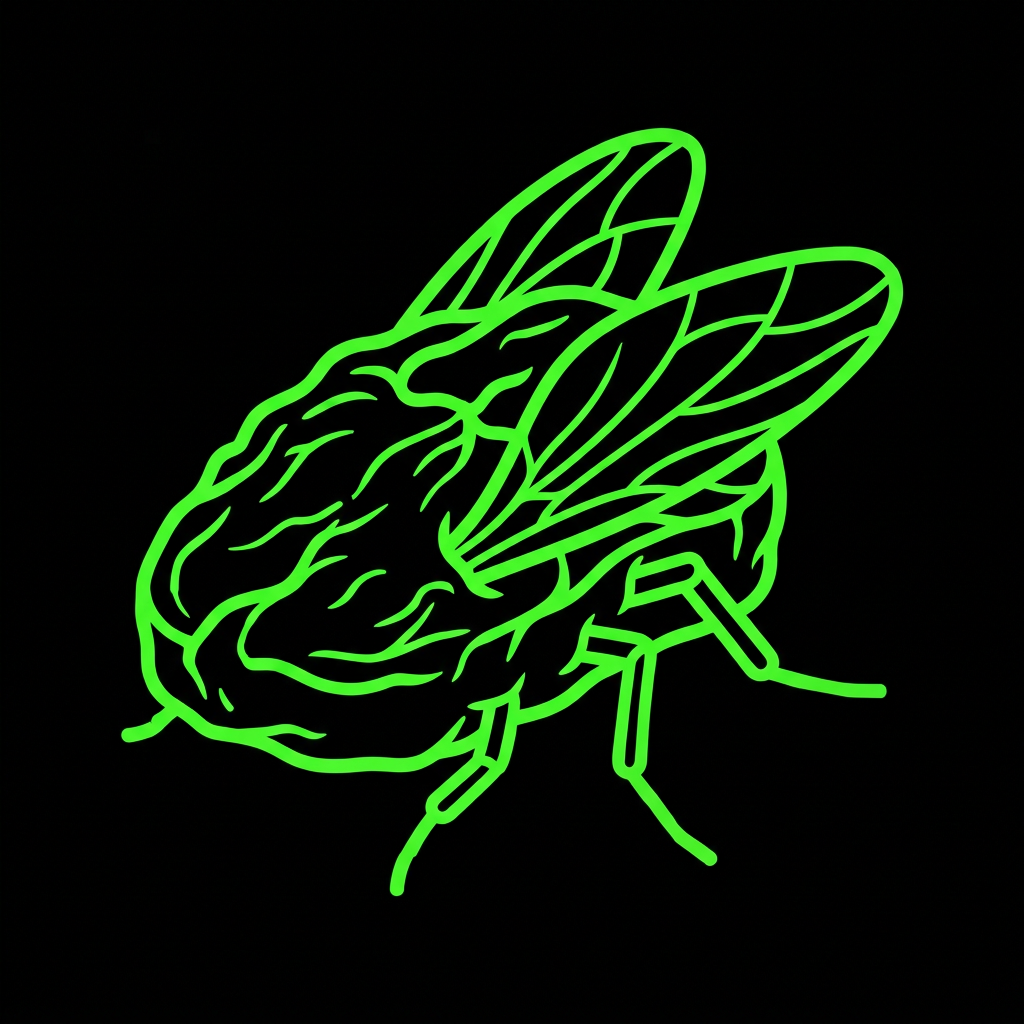
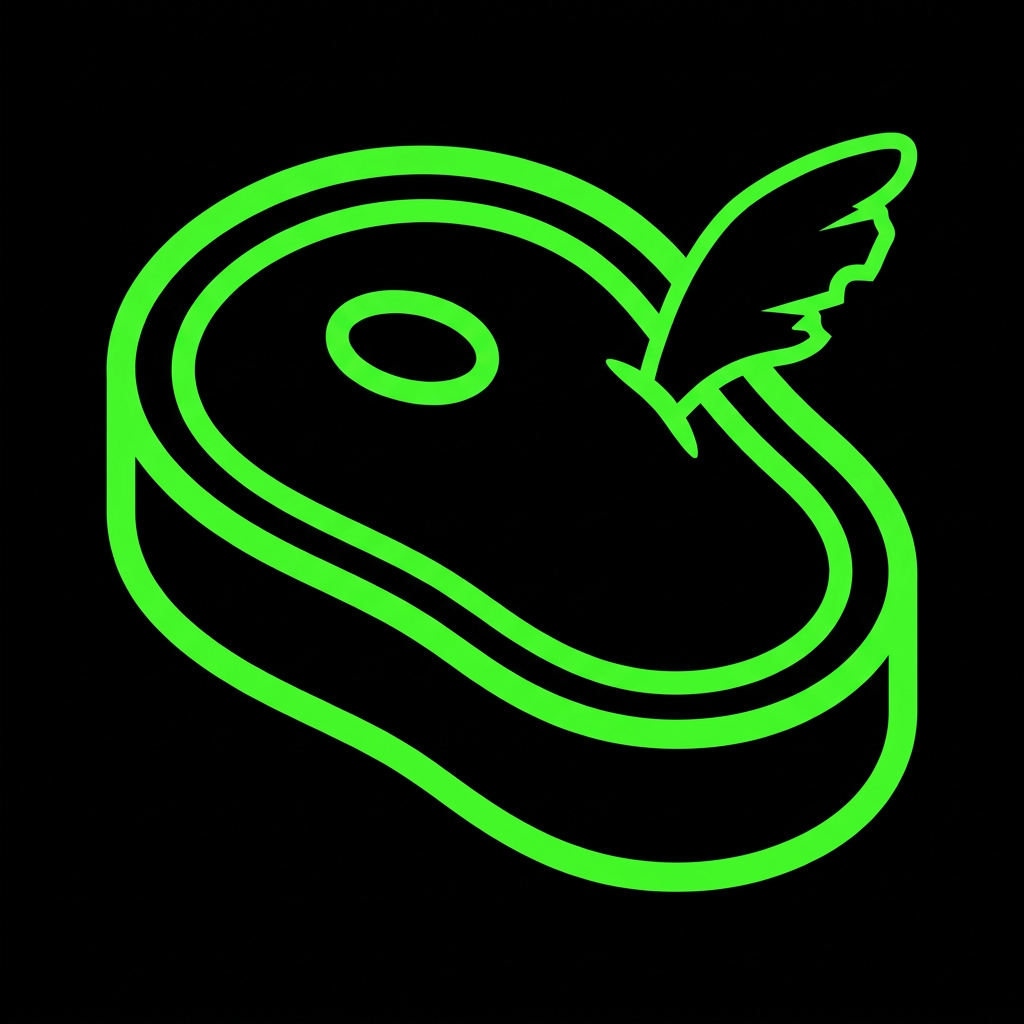
ITMBILDER.md zur Pflegedokumentation, meat-Fleisch korrigiert (#444)
docs/ITEMBILDER.md war eine Arbeitsliste und zuletzt zur Haelfte
veraltet: die Fehlliste leer, die Blockeinteilung erledigt, die
Stand-Zeile nannte 23 von 126. Jetzt eine Pflegedokumentation:
Stilregeln, Arbeitsablauf fuer ein neues Motiv, die vier
Fehlerklassen mit ihren Messwerten, die Werkzeuge und ihre Fallen.

Dabei einen echten Restfehler gefunden und behoben. Die Doku hielt
fest, dass meat_roach, meat_fly und meat_mole das ganze Tier zeigen
statt eines Fleischstuecks - inhaltlich falsch neben meat_dog,
meat_lurk und meat_yao, die Fleisch zeigten. meat_roach und meat_fly
sind neu gezeichnet: Fleischstueck als Hauptform, Herkunft als
kleines Detail. meat_mole kam mit weissem Hintergrund zurueck und
fehlt noch.

126 Items, 125 Motive, 678 kB. 135 Tests gruen, Verify vollstaendig.

Changed region(s): [[0.0938, 0.125, 0.9062, 0.875]]

diff --git a/PipBoy3000/docs/ITEMBILDER.md b/PipBoy3000/docs/ITEMBILDER.md
@@ -1,175 +1,132 @@
-# Item-Bilder — was noch fehlt
+# Item-Bilder — Pflege
 
-Stand: 23 von 126 Items haben ein Bild (`img/items/`).
-Werkzeug: `npm run icons` (beschneiden, Rand, 128 px, Tabelle schreiben).
-Rohbilder liegen in `docs/muster/<id>.png`, ausgeliefert wird `img/items/<id>.png`.
+**Stand: alle 126 Items haben ein Bild.** 128 × 128 px, Ø 5,4 kB, 678 kB gesamt.
 
-## Stil (für alle Prompts gleich)
+Diese Datei beschreibt, wie ein Motiv entsteht und woran ein unbrauchbares
+Rohbild erkannt wird. Die Fehlliste, die hier früher stand, ist leer — sie
+wird bei Bedarf wieder aufgenommen.
 
-> monochrome phosphor green line art (#39ff14) on a solid pure black background,
-> thick clean uniform stroke width, upright, centered, filling about 80% of the
-> square frame, narrow black margin. No text, no letters, no numbers, no border,
-> no frame, no shadow, no gradient.
-
-Die Lage ist entscheidend: **aufrecht oder diagonal mit gefüllter Fläche.**
-Die erste Spritze lag flach diagonal im Bild und war bei 32 px nur ein Strich.
-
-## Fertig (23)
-
-Verbrauchsgüter: `stimpack` `radaway` `radx` `nuka_cola` `nuka_quantum`
-`jet` `buffout` `stealth_boy`
-Munition: `ammo_10mm` `ammo_shell` `ammo_micro`
-Waffen: `pistol_10mm` `revolver_44` `shotgun` `combat_shotgun` `smg`
-`assault_rifle` `minigun` `laser_pistol` `laser_rifle` `plasma_pistol` `plasma_rifle`
-Rüstung: `power_armor`
-
-## Inhaltsfehler: Tiere statt Fleisch
-
-`meat_roach` `meat_fly` `meat_mole` zeigen das ganze Tier (Kakerlake,
-Fliege, Ratte) statt eines Fleischstuecks. Das Pruefskript kann das nicht
-fangen - die Bilder sind technisch einwandfrei, nur inhaltlich falsch.
-
-Ursache: "a lump of raw insect meat with legs attached" wurde als ganzes
-Insekt gelesen. Richtig ist: das Fleischstueck ist die Hauptform, die
-Herkunft nur ein kleines Detail.
-
-Regel: bei Fleisch zuerst die FORM nennen (Steak, Rippchen, Klaue,
-Braten), die Herkunft nur als Beigabe.
-
-## Dunkler Schleier statt Schwarz
-
-`wrench` und `camp_kit` hatten im Rohbild einen dunkelgruenen Schleier:
-Hintergrund (5,22,5) statt (0,1,0). Die Weiss-Pruefung sieht das nicht,
-weil 22 im Gruenkanal weit unter der Weiss-Schwelle liegt. Im Inventar
-wirken solche Icons als hellere Kacheln neben 118 sauberen.
-
-`tools/icon-check.mjs` prueft jetzt zusaetzlich: liegt der Anteil der
-Hintergrundpixel mit Gruenwert ueber 8 bei mehr als 30 %, ist der
-Hintergrund nicht schwarz.
-
-## Befüllte statt gezeichneter Motive
-
-`cooked_lurk` kam als vollflaechig gefuellte Silhouette zurueck statt als
-Linienkunst (25 % helle Pixel gegen 14,6 % Mittel). Die Weiss-Pruefung
-sieht das nicht — hier hilft nur der Blick aufs Kontrollblatt.
-
-Regel fuer die Restmotive: "outline line art, hollow interior, no solid
-fill" gehoert bei jedem Motiv in den Prompt, das eine grosse Flaeche hat.
-
-## Ausschuss in Block 5
-
-`bp_stimpack` und `gears` hatten weissen Hintergrund (85,6 % / 36,3 %) —
-mit dem Zusatz "on a SOLID PURE BLACK BACKGROUND (no white, no light grey)"
-im Prompt beide im zweiten Anlauf sauber.
-
-`duct_tape` war zweimal Ausschuss (weisser Streifen am unteren Rand,
-y 896-1023 und y 925-1023). Der dritte Versuch mit "top-down, perfectly
-centered, at least 15 percent margin on every side" war sauber — das
-Motiv ist im Set.
-
-## Regel: Hintergrund pruefen
-
-Ein Motiv kann inhaltlich stimmen und trotzdem unbrauchbar sein, wenn der
-Hintergrund weiss ist. Das Faerbungsmuster "green line art on a solid pure
-black background" wird nicht immer befolgt. `tools/icon-check.mjs` zaehlt
-weisse Pixel und bricht ab - bei `gears` war nur der Hintergrund falsch,
-die Zahnraeder selbst waren sauber.
-
-## Ausschuss in Block 4 — erledigt
-
-`greaves_metal` und `helmet_combat` wurden vom Pruefskript abgefangen
-(14,9 % und 80,5 % weisse Pixel) und neu gezeichnet. Beide sind jetzt im Set.
-
-## Bildfehler-Prüfung
-
-`node tools/icon-check.mjs` (laeuft bei `npm run icons` zuerst) meldet Rohbilder
-mit mehr als 0,5 % weissen Pixeln und bricht dann ab.
-
-Bisher gefunden: `knuckles` (weisse Stoerung in allen vier Ecken) und
-`pipe_sniper` (gefuellte Grafik auf Weiss statt Linien auf Schwarz). Beide neu
-gezeichnet, die Pruefung greift jetzt vor der Aufbereitung.
-
-## Erledigt in Block 3 — Restliche Waffen (23)
-
-Schusswaffen:
-
-| id | Motiv |
+| | |
 |---|---|
-| `pipe_pistol` | Rohrpistole aus Rohren und Klebeband |
-| `pipe_rifle` | Rohrgewehr mit langem Rohr und Holzschaft |
-| `pipe_revolver` | Rohrrevolver, grob, mit Trommel |
-| `pipe_sniper` | Rohr-Sniper mit Zielfernrohr aus Rohren |
-| `hunting_rifle` | Jagdgewehr, Holzschaft, Repetierhebel |
-| `sniper_rifle` | Scharfschützengewehr mit großem Zielfernrohr und Zweibein |
-| `alien_blaster` | außerirdische Strahlenwaffe, organisch gerundet |
+| Rohbilder | `docs/muster/<id>.png` (1024–2048 px, nicht ausliefern) |
+| Ausgeliefert | `img/items/<id>.png` |
+| Aufbereitung | `npm run icons` → `tools/icons.mjs`, danach Tabelle schreiben |
+| Prüfung vorher | `npm run icons:check` → `tools/icon-check.mjs` |
+| Sichtprüfung | `docs/kontrollblatt-items.png` (alle Motive auf einem Bild) |
 
-Nahkampf:
+`npm run icons` ruft die Prüfung selbst auf und bricht bei einem Fund ab.
+Ein fehlerhaftes Rohbild kommt damit nicht ins Set.
 
-| id | Motiv |
+## Ein neues Motiv
+
+1. Rohbild nach dem Stil unten erzeugen, ablegen als `docs/muster/<item-id>.png`.
+   Die ID muss der Schlüssel in `src/data/data_items.js` sein.
+2. `npm run icons` — beschneiden, Rand, 128 px, Tabelle schreiben.
+3. `npm test` — prüft Tabelle, Dateigröße, Pfade und dass jedes Bild ein Item hat.
+4. Kontrollblatt neu bauen und ansehen. **Der Schritt ist nicht optional** (siehe
+   Fehlerklasse 4).
+
+Fehlt ein Bild, greift im Inventar das Typ-Emoji. Das ist der Rückfall, nicht
+der Normalfall: seit v14.0.6 hat jedes Item ein Motiv.
+
+## Stil
+
+> A single flat vector icon of …, drawn in the style of a Fallout Pip-Boy
+> terminal interface: monochrome phosphor green line art (#39ff14) on a solid
+> pure black background. Thick, clean, uniform stroke width. Upright, centered,
+> filling about 80% of the square frame, narrow black margin. No text, no
+> letters, no numbers, no border, no frame, no shadow, no gradient.
+
+Vier Zusätze, die aus Fehlversuchen entstanden sind. Sie gehören in **jeden**
+Prompt — ohne sie liegt die Trefferquote bei etwa 85 %:
+
+| Zusatz | verhindert |
 |---|---|
-| `fists` | gepanzerte Faust / Schlaghandschuh |
-| `knuckles` | Schlagring mit vier Löchern und Noppen |
-| `switchblade` | Springmesser, schmale Klinge, Knopf am Griff |
-| `knife` | Kampfmesser, kurze Klinge, Parierstange |
-| `machete` | Machete, breite Klinge |
-| `rolling_pin` | Nudelholz aus Holz mit zwei Griffen |
-| `pipe_wrench` | Rohrzange, gezahnte Backe |
-| `police_baton` | Schlagstock mit Seitengriff |
-| `baseball_bat` | Baseballschläger aus Holz |
-| `bat_alum` | Alu-Schläger, glatter Lauf, Klebeband am Griff |
-| `bat_spiked` | Baseballschläger mit Nägeln |
-| `sledgehammer` | Vorschlaghammer, schwerer Kopf |
-| `super_sledge` | Superhammer, überdimensionierter Kopf mit Bolzen |
-| `ripper` | Kettensäge-Klinge mit Motor und Kabel |
-| `power_fist` | angetriebene Powerfaust mit Hydraulik |
-| `deathclaw_gauntlet` | Handschuh aus Todeskrallen-Klauen |
+| `on a SOLID PURE BLACK BACKGROUND (no white, no light grey)` | weißen Hintergrund |
+| `perfectly centered, at least 15 percent margin on every side` | weißen Streifen am Bildrand |
+| `outline line art, hollow interior, no solid fill` | vollflächig gefüllte Silhouette |
+| `pure black, no dark green tint, no haze, no vignette` | dunkelgrünen Schleier |
 
-## Block 4 — Rüstung (25) — KOMPLETT
+**Lage:** aufrecht oder diagonal, aber die Form muss die Fläche füllen. Die
+erste Spritze lag flach diagonal in einem 2048er Quadrat und war bei 32 px nur
+ein Strich.
 
-| Stufe | ids |
-|---|---|
-| Raider ✓ | `raider_armor` `raider_helm` `raider_arm_l` `raider_leg_r` |
-| Leder ✓ | `leather_armor` `leather_helm` `bracers_leather` `pants_leather` `boots_leather` |
-| Metall ✓ | `metal_armor` `helmet_metal` `metal_arms` `greaves_metal` |
-| Kampf ✓ | `combat_armor` `helmet_combat` `combat_arms` `combat_legs` `boots_combat` |
-| Synth ✓ | `synth_armor` `synth_helmet` |
-| Sonstiges ✓ | `vault_suit` `hazmat_suit` `cap_baseball` `helmet_mining` `gas_mask` `jeans` `boots_worn` |
+**Fleisch:** zuerst die FORM nennen (Steak, Rippchen, Keule), die Herkunft nur
+als kleines Detail. „a lump of raw insect meat with legs attached" wurde als
+ganzes Insekt gelesen — `meat_roach`, `meat_fly` und `meat_mole` zeigten
+zunächst das Tier statt des Fleisches.
 
-## Block 5 — Handwerk, Rohstoffe, Rucksäcke (42)  ← laeuft
+**Rohstoffe:** Einzelteil statt Kiste. Eine Schraube ist bei 32 px lesbar, eine
+Schraubenschachtel nicht.
 
-Rucksäcke (fertig): `backpack_frame` `backpack_leather` `backpack_metal`
-`backpack_military` `backpack_cargo`
+**Rüstung:** die vier Teile einer Stufe trennen über die Silhouette (Brustplatte,
+Helm, Armschutz, Beinschutz), die Stufen untereinander über die Oberfläche
+(Schrott, Naht, Nieten, Verbundplatten, glatte Naht).
 
-Werkzeug: `camp_kit` `lockpick` `wrench` `clipboard` `tin_can`
-`radio_part` `fusion_core`
+## Die vier Fehlerklassen
 
-Baupläne ✓: `bp_ammo` `bp_stimpack`
+Bei 126 Motiven waren rund 20 Rohbilder unbrauchbar — fast nie, weil das Motiv
+misslang, sondern wegen der Aufbereitung. Drei der vier Klassen sind an der
+Datei nicht zu erkennen: 1024 × 1024, schwarz, grün, ladbar, technisch
+einwandfrei.
 
-Munition (fertig): `ammo` (Schrott .38) `ammo_308` `ammo_cell`
+### 1. Weißer Hintergrund
 
-Rohstoffe ✓: `junk_metal` `cloth` `screws` `glue` `springs` `plastic` `leather`
-`gears` `circuit` `adhesive` `oil` `duct_tape`
+Der Stilsatz wird nicht zuverlässig befolgt. Bei `gears` stimmte das Motiv
+vollständig — nur der Hintergrund war weiß statt schwarz.
 
-Selten (4/8): `nuclear_mat` `legendary_part` `titanium` `bone`
-Offen: `deathclaw_hand` `acid` `poison_gland` `gunpowder`
+Erkennung: Anteil weißer Pixel über **0,5 %**.
 
-Nahrung (roh) 5/8: `meat_dog` `meat_scorp` `meat_yao` `meat_lurk` `hide_yao`
-Falsch, neu: `meat_roach` `meat_fly` `meat_mole`
+### 2. Weißer Streifen am Bildrand
 
-Nahrung (gebraten): `cooked_roach` `cooked_mole` `cooked_fly`
-`cooked_scorp` `cooked_lurk` `cooked_dog` `cooked_yao`
+`duct_tape` scheiterte zweimal mit einem weißen Streifen über die volle Breite
+am unteren Rand (y 896–1023, dann y 925–1023). Das Motiv war jedes Mal richtig.
+Beim Zuschneiden wäre daraus eine weiße Kante im Icon geworden.
 
-Verbrauchsgut ✓: `super_stimpack`
+Erkennung: weiße Pixel über 0,5 % **plus** Meldung, ob sie in einem
+zusammenhängenden Streifen an der ersten oder letzten Bildzeile liegen.
 
-## Regel für die Rohstoffe
+### 3. Dunkelgrüner Schleier
 
-Bei Rohmaterial reicht ein **Symbol-Motiv** (Schraube, Zahnrad, Klebeband-
-Rolle) statt einer realistischen Darstellung — bei 32 px ist eine
-Schraubenschachtel nicht lesbar, eine einzelne Schraube schon.
+`wrench` und `camp_kit` hatten einen Hintergrund von (5,22,5) statt (0,1,0).
+Grünwert 22 liegt weit unter der Weiß-Schwelle, die Prüfung sah nichts. Im
+Inventar wirken solche Icons als hellere Kacheln neben 118 sauberen.
 
-## Prüfung nach jedem Block
+Erkennung: Anteil der Hintergrundpixel (Grünwert ≤ 60) mit Grünwert über 8 —
+bei mehr als **30 %** ist der Hintergrund nicht schwarz.
+
+### 4. Gefüllte statt gezeichneter Silhouette
+
+`cooked_lurk` kam vollflächig gefüllt zurück (25,4 % helle Pixel gegen 6,7 %
+Median). Die Datei war einwandfrei.
+
+**Diese Klasse fängt keine Pixelmetrik.** Sie fiel nur beim Ansehen des
+Kontrollblatts auf. Deshalb ist Schritt 4 oben nicht optional.
+
+## Werkzeuge
 
 ```sh
-npm run icons          # aufbereiten + Tabelle schreiben
-npm test               # tests/item-bilder.test.mjs prüft Tabelle, Größe, Pfade
+npm run icons:check    # nur prüfen
+npm run icons          # prüfen + aufbereiten + Tabelle schreiben
+npm test               # u. a. tests/item-bilder.test.mjs
 ```
+
+`tools/icons.mjs` schneidet auf den Inhalt zu (`trim`, Schwelle 40), legt 8 %
+Rand an, skaliert in **zwei getrennten `sharp`-Instanzen** auf 128 px und
+schreibt als PNG-Palette mit Stufe 9.
+
+Die Trennung ist Pflicht: `sharp` führt pro Pipeline nur **einen** `resize`
+aus, ein zweiter in derselben Kette wird still ignoriert. Alle Bilder kamen
+dadurch mit 254–276 px statt 128 heraus.
+
+## Test
+
+`tests/item-bilder.test.mjs` prüft:
+
+- Tabelle und Dateibestand sind deckungsgleich
+- jedes Bild gehört zu einem existierenden Item
+- 128 × 128 und unter 20 kB
+- Pfade sind relativ (`img/items/…`, kein führender Schrägstrich — sonst bricht
+  einer der beiden Hosts, GitHub Pages und Vercel)
+- **jedes** Item hat ein Bild; schlägt das fehl, ist der Emoji-Rückfall wieder
+  im Spiel und braucht einen eigenen Test
